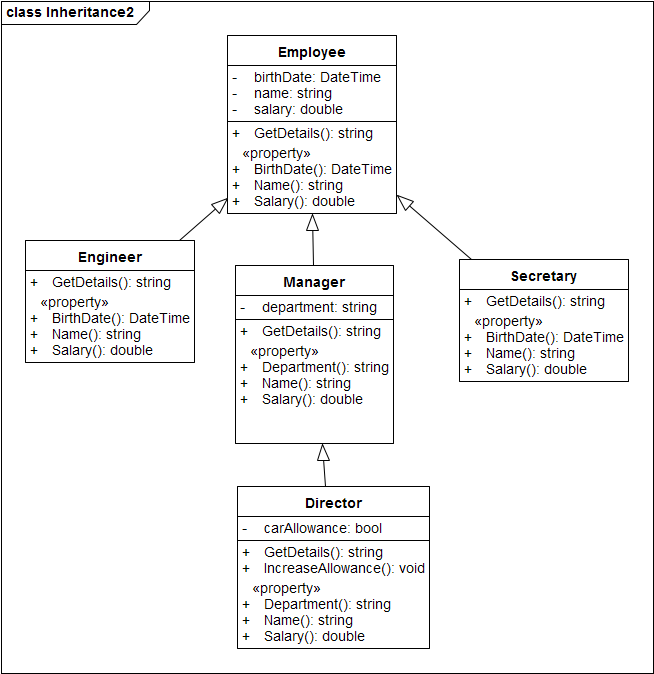
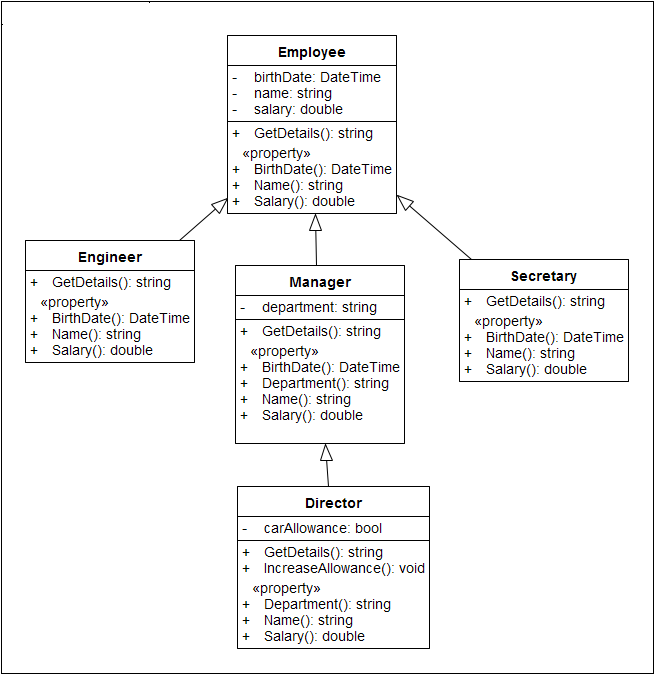
Modifies fig3

diff --git a/src/Director.cs b/src/Director.cs
@@ -6,6 +6,8 @@ using System.IO;
 
 
 public class Director : Manager {
+	private bool carAllowance;
+
 
 	public Director(){
 
@@ -45,6 +47,10 @@ public class Director : Manager {
 		set{
 			salary = value;
 		}
+	}
+
+	public void IncreaseAllowance(){
+
 	}
 
 }//end Director

diff --git a/src/Manager.cs b/src/Manager.cs
@@ -51,4 +51,13 @@ public class Manager : Employee {
 		}
 	}
 
+	public override DateTime BirthDate{
+		get{
+			return birthDate;
+		}
+		set{
+			birthDate = value;
+		}
+	}
+
 }//end Manager
